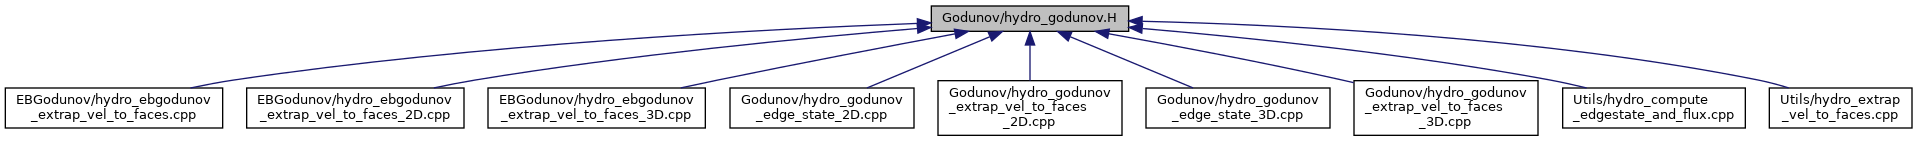
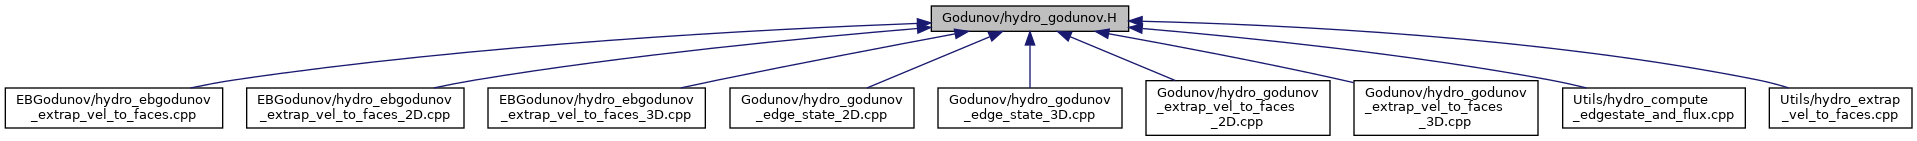
Deploying to main from  @ cc9b82daaecebbbc23d24aa5696b3ca58d60dfdc 🚀

Changed region(s): [[0.4924, 0.5674, 0.7079, 0.9645]]

diff --git a/amrex-hydro/Doxygen/html/navtreeindex9.js b/amrex-hydro/Doxygen/html/navtreeindex9.js
@@ -1,5 +1,7 @@
 var NAVTREEINDEX9 =
 {
+"namespaceamrex_1_1FileSystem.html#a53bbe4a421536a453fcb97d3c8219a55":[2,0,0,11,4],
+"namespaceamrex_1_1FileSystem.html#a7c995a447e27d5ea33bd54090d867373":[2,0,0,11,0],
 "namespaceamrex_1_1FileSystem.html#aabdade8ca72598b4b02073e1d72c8afe":[2,0,0,11,1],
 "namespaceamrex_1_1FileSystem.html#afee9c962b3446b2d10724c21add85f8c":[2,0,0,11,2],
 "namespaceamrex_1_1Font.html#a0a6af2cfc3d3c8e71bd2d45f6e3362fa":[2,0,0,12,4],
@@ -132,11 +134,14 @@ var NAVTREEINDEX9 =
 "namespaceamrex_1_1Lazy.html#a01ac7d4ed0bfab3839b45995cf260a05":[2,0,0,16,3],
 "namespaceamrex_1_1Lazy.html#a0a2dd2d6e19976b8eaebb9d81a65718a":[2,0,0,16,2],
 "namespaceamrex_1_1Lazy.html#a17dde5bdf675b748b4cff2f01edd7fc5":[2,0,0,16,1],
+"namespaceamrex_1_1Lazy.html#a48f09e6d45685ddcaa72f6424891b9e4":[2,0,0,16,4],
 "namespaceamrex_1_1Lazy.html#aaf84a070bebdd187b4edacd264604b5f":[2,0,0,16,5],
 "namespaceamrex_1_1Lazy.html#ac520a3dfdc05eaffb3b4eea05eea5668":[2,0,0,16,0],
+"namespaceamrex_1_1MFUtil.html#a0d2b028d5b4be5e38a0e4f8fc778c523":[2,0,0,18,3],
 "namespaceamrex_1_1MFUtil.html#a69b29ecaacdc25da8869a005da585ef2":[2,0,0,18,1],
 "namespaceamrex_1_1MFUtil.html#a9b34553675e4bbe3e7e6108780d34975":[2,0,0,18,0],
 "namespaceamrex_1_1MFUtil.html#a9c04768eaa499d2b837f0732d1316e6c":[2,0,0,18,4],
+"namespaceamrex_1_1MFUtil.html#afe644ed72607173bbcef31867f6a0c36":[2,0,0,18,2],
 "namespaceamrex_1_1MPMD.html#a3140db6536c44d09f5fec2fb7d4ff136":[2,0,0,20,2],
 "namespaceamrex_1_1MPMD.html#a3df5e063f2b14481feae8cea0d6d44d1":[2,0,0,20,5],
 "namespaceamrex_1_1MPMD.html#a444d6a7e87c49476671049df5ea59107":[2,0,0,20,0],
@@ -244,10 +249,5 @@ var NAVTREEINDEX9 =
 "namespaceamrex_1_1ParallelDescriptor.html#a01e2509fda38be90b0721b3a1aad439c":[2,0,0,27,61],
 "namespaceamrex_1_1ParallelDescriptor.html#a0653e205c26f3961aa756292d5f8dbc4":[2,0,0,27,134],
 "namespaceamrex_1_1ParallelDescriptor.html#a0719939ecc6b26843399e2af4d660f14":[2,0,0,27,59],
-"namespaceamrex_1_1ParallelDescriptor.html#a07419f788f738f82f07c288c70af5e6f":[2,0,0,27,150],
-"namespaceamrex_1_1ParallelDescriptor.html#a07c6b4691afed879feab525503e1e267":[2,0,0,27,99],
-"namespaceamrex_1_1ParallelDescriptor.html#a08634d889b97ecfc6d1093e15405dd0e":[2,0,0,27,108],
-"namespaceamrex_1_1ParallelDescriptor.html#a0903eb5194f11fcf386f79e6ff3c02f7":[2,0,0,27,8],
-"namespaceamrex_1_1ParallelDescriptor.html#a0b576ec45a3e69f29b13abda811d7f7d":[2,0,0,27,158],
-"namespaceamrex_1_1ParallelDescriptor.html#a0d0639c2781f6e40af7d1b507d3a7a2b":[2,0,0,27,44]
+"namespaceamrex_1_1ParallelDescriptor.html#a07419f788f738f82f07c288c70af5e6f":[2,0,0,27,150]
 };

diff --git a/amrex-hydro/Doxygen/html/navtreeindex12.js b/amrex-hydro/Doxygen/html/navtreeindex12.js
@@ -1,5 +1,7 @@
 var NAVTREEINDEX12 =
 {
+"namespaceamrex__constants__module.html#a6d0e20a18c5f695168cf590f87a460a4":[2,0,3,0],
+"namespaceamrex__constants__module.html#a7469c455ff0cedccfe42c39814622d44":[2,0,3,5],
 "namespaceamrex__constants__module.html#a82956dfe228acd8237172da6676e9e6c":[2,0,3,23],
 "namespaceamrex__constants__module.html#a83c308d92e3f50a4417ffa2eff4fc09c":[2,0,3,16],
 "namespaceamrex__constants__module.html#a884b54aef39c5c0ccba71be9614da8ea":[2,0,3,8],
@@ -47,8 +49,6 @@ var NAVTREEINDEX12 =
 "namespaceamrex__ebcellflag__module.html#ad0031001816fff176a885f73100062a8":[2,0,5,17],
 "namespaceamrex__ebcellflag__module.html#adb0a0516e63c6b90231902627fd51da1":[2,0,5,20],
 "namespaceamrex__ebcellflag__module.html#ae273e014cf970934c7683d5b8ab34c08":[2,0,5,19],
-"namespaceamrex_1_1EB2.html#a9b7e8df1d1bc60db9850f4a8abc067cd":[2,0,0,7,40],
-"namespaceamrex_1_1Amrvis.html#a3e880279ad4fb97535a0415f652dfc9d":[2,0,0,1,45],
 "namespaceamrex__ebcellflag__module.html#af1a98ee57e3c07abebae3e337d7895e7":[2,0,5,15],
 "namespaceamrex__ebcellflag__module.html#afe2a626f0efaee2b68a1c1b08225638e":[2,0,5,13],
 "namespaceamrex__error__module.html#a1a83328a0c70eaabd8ab9e1f041e581a":[2,0,6,1],
@@ -227,27 +227,27 @@ var NAVTREEINDEX12 =
 "structPPM_1_1wenoz.html#a26f76ed612ed3793a198fea5ba04ee0f":[3,0,1,2,2],
 "structPPM_1_1wenoz.html#a72576c8e1cd81086424841c36abe0864":[3,0,1,2,3],
 "structPPM_1_1wenoz.html#afee4ed2d065a9e7f6feec66c8a96a929":[3,0,1,2,1],
-"":[2,0,0,0],
-"":[2,0,16],
+"":[2,0,7],
+"":[2,0,0,8,0],
+"":[2,0,0,4],
+"":[2,0,0,16],
+"":[2,0,0,32],
+"":[2,0,3],
+"":[2,0,0,7,1],
+"":[2,0,0,26],
+"":[2,0,0,29],
+"":[2,0,15],
+"":[2,0,0,11],
+"":[2,0,0,31,0],
 "":[2,0,0,33,0],
-"":[2,0,0,7],
-"":[2,0,0,23],
-"":[2,0,0,5],
-"":[2,0,0,10],
-"":[2,0,0,13],
-"":[2,0,0,7,2],
-"":[2,0,0,14],
-"":[2,0,0,34],
-"":[2,0,12],
-"":[2,0,0,32,0],
-"":[2,0,0,1],
-"":[2,0,1],
-"":[2,0,8],
-"":[2,0,0,9],
-"":[2,0,0,38],
-"":[2,0,0,21],
-"":[2,0,13],
+"":[2,0,0,24],
+"":[2,0,0,33],
+"":[2,0,0,20],
+"":[2,0,0,36],
 "":[2,0,0,6],
-"":[2,0,0,7,0],
-"":[2,0,0,35]
+"":[2,0,14],
+"":[2,0,5],
+"":[2,0,0,14],
+"":[2,0,0,21],
+"":[2,0,0,0,0]
 };

diff --git a/amrex-hydro/Doxygen/html/navtreeindex11.js b/amrex-hydro/Doxygen/html/navtreeindex11.js
@@ -1,5 +1,10 @@
 var NAVTREEINDEX11 =
 {
+"namespaceamrex_1_1algoim.html#a1563d162ff7c724b049f407982b9376a":[2,0,0,0,22],
+"namespaceamrex_1_1algoim.html#a1d243dc8981384f1c0cb8b266c042735":[2,0,0,0,8],
+"namespaceamrex_1_1algoim.html#a26347d2ffb8ae0e55a261293b75aae80":[2,0,0,0,27],
+"namespaceamrex_1_1algoim.html#a2c8ca6ff2da3fdde81370a1dd00c9416":[2,0,0,0,3],
+"namespaceamrex_1_1algoim.html#a319d09e3fac406d5c7435495783c51da":[2,0,0,0,24],
 "namespaceamrex_1_1algoim.html#a354fd3da392bde50d7c9e5fd31a10385":[2,0,0,0,15],
 "namespaceamrex_1_1algoim.html#a3ccdff6c18c04f2fb7aa460f885333ba":[2,0,0,0,2],
 "namespaceamrex_1_1algoim.html#a59d00e52a1182ccb7556e0b34969d082":[2,0,0,0,23],
@@ -41,9 +46,6 @@ var NAVTREEINDEX11 =
 "namespaceamrex_1_1detail.html#a10e8c484da7d2f2f5bbd223b6b92dc87":[2,0,0,5,19],
 "namespaceamrex_1_1detail.html#a11b496ac41b8e46fe7f1adf74392dcfb":[2,0,0,5,43],
 "namespaceamrex_1_1detail.html#a1fbad5ff9cc23fcc37c363d9d3bc0d94":[2,0,0,5,2],
-"namespaceamrex_1_1Lazy.html#a48f09e6d45685ddcaa72f6424891b9e4":[2,0,0,16,4],
-"namespaceamrex_1_1MFUtil.html#a0d2b028d5b4be5e38a0e4f8fc778c523":[2,0,0,18,3],
-"namespaceamrex_1_1MFUtil.html#afe644ed72607173bbcef31867f6a0c36":[2,0,0,18,2],
 "namespaceamrex_1_1detail.html#a22f28be2277f42d7a03a9e08a27ef688":[2,0,0,5,8],
 "namespaceamrex_1_1detail.html#a250b5d3b18b57c96185794d45778bceb":[2,0,0,5,35],
 "namespaceamrex_1_1detail.html#a25e0b92826e807152f4d649b33c45336":[2,0,0,5,24],
@@ -247,7 +249,5 @@ var NAVTREEINDEX11 =
 "namespaceamrex__constants__module.html#a4af48d8e7785fd2fdc80cc68c460e520":[2,0,3,14],
 "namespaceamrex__constants__module.html#a4f8d71c1b1d316bbf6505f7a9511d24d":[2,0,3,1],
 "namespaceamrex__constants__module.html#a5321716779ead3e7f70ea68bdbd2fb8b":[2,0,3,9],
-"namespaceamrex__constants__module.html#a629e9df315fc853fd9996d553493c395":[2,0,3,26],
-"namespaceamrex__constants__module.html#a6d0e20a18c5f695168cf590f87a460a4":[2,0,3,0],
-"namespaceamrex__constants__module.html#a7469c455ff0cedccfe42c39814622d44":[2,0,3,5]
+"namespaceamrex__constants__module.html#a629e9df315fc853fd9996d553493c395":[2,0,3,26]
 };

diff --git a/amrex-hydro/Doxygen/html/navtreeindex8.js b/amrex-hydro/Doxygen/html/navtreeindex8.js
@@ -100,6 +100,7 @@ var NAVTREEINDEX8 =
 "namespaceamrex_1_1Amrvis.html#a215d738508df9f39360cdc84a844e98eaba96691ea8224cc3ccf1b9b54dfff4b3":[2,0,0,1,16],
 "namespaceamrex_1_1Amrvis.html#a215d738508df9f39360cdc84a844e98eac6c6458c687d1b60adee77a09a91bef5":[2,0,0,1,21],
 "namespaceamrex_1_1Amrvis.html#a345f2c2cc5c709a02e40f34b83d914fb":[2,0,0,1,49],
+"namespaceamrex_1_1Amrvis.html#a3e880279ad4fb97535a0415f652dfc9d":[2,0,0,1,45],
 "namespaceamrex_1_1Amrvis.html#a437894f04cb4f84ae291fb58f63fac4f":[2,0,0,1,24],
 "namespaceamrex_1_1Amrvis.html#a53ecf753e57075db2ce21ddbb7b70d64":[2,0,0,1,43],
 "namespaceamrex_1_1Amrvis.html#a599af4a9a7801ab18cba2c51f52a5120":[2,0,0,1,0],
@@ -193,6 +194,7 @@ var NAVTREEINDEX8 =
 "namespaceamrex_1_1EB2.html#a8d7bc742e281f0aa021c859e7cd8f355":[2,0,0,7,30],
 "namespaceamrex_1_1EB2.html#a900c8b65fe13dca2d107ec8ae396b7b7":[2,0,0,7,46],
 "namespaceamrex_1_1EB2.html#a97bb46ef943ca61f6c69345a636c8f91":[2,0,0,7,12],
+"namespaceamrex_1_1EB2.html#a9b7e8df1d1bc60db9850f4a8abc067cd":[2,0,0,7,40],
 "namespaceamrex_1_1EB2.html#aa6d8b9ccdeea03640db903d130f9af47":[2,0,0,7,48],
 "namespaceamrex_1_1EB2.html#aa7338d977a75ba57af4d72210ed906d1":[2,0,0,7,31],
 "namespaceamrex_1_1EB2.html#ab08bb163ec9d566ce748dd6c4a7f0385":[2,0,0,7,43],
@@ -247,7 +249,5 @@ var NAVTREEINDEX8 =
 "namespaceamrex_1_1FGColor.html#a9a21f50f46715c9f6e92e23e7416d595":[2,0,0,10,14],
 "namespaceamrex_1_1FGColor.html#aae3403f6980e1c0d60774d007a6590f4":[2,0,0,10,12],
 "namespaceamrex_1_1FGColor.html#afca8013d5b489e37aa5c257ad3073aab":[2,0,0,10,0],
-"namespaceamrex_1_1FileSystem.html#a1887698566ebd58596be3b1a96ad2e9a":[2,0,0,11,3],
-"namespaceamrex_1_1FileSystem.html#a53bbe4a421536a453fcb97d3c8219a55":[2,0,0,11,4],
-"namespaceamrex_1_1FileSystem.html#a7c995a447e27d5ea33bd54090d867373":[2,0,0,11,0]
+"namespaceamrex_1_1FileSystem.html#a1887698566ebd58596be3b1a96ad2e9a":[2,0,0,11,3]
 };

diff --git a/amrex-hydro/Doxygen/html/navtreeindex10.js b/amrex-hydro/Doxygen/html/navtreeindex10.js
@@ -1,5 +1,10 @@
 var NAVTREEINDEX10 =
 {
+"namespaceamrex_1_1ParallelDescriptor.html#a07c6b4691afed879feab525503e1e267":[2,0,0,27,99],
+"namespaceamrex_1_1ParallelDescriptor.html#a08634d889b97ecfc6d1093e15405dd0e":[2,0,0,27,108],
+"namespaceamrex_1_1ParallelDescriptor.html#a0903eb5194f11fcf386f79e6ff3c02f7":[2,0,0,27,8],
+"namespaceamrex_1_1ParallelDescriptor.html#a0b576ec45a3e69f29b13abda811d7f7d":[2,0,0,27,158],
+"namespaceamrex_1_1ParallelDescriptor.html#a0d0639c2781f6e40af7d1b507d3a7a2b":[2,0,0,27,44],
 "namespaceamrex_1_1ParallelDescriptor.html#a0f53686fc6a6b7dca69c230fd1336e44":[2,0,0,27,27],
 "namespaceamrex_1_1ParallelDescriptor.html#a10f34646867ef5dd70d02ecf014de3d2":[2,0,0,27,95],
 "namespaceamrex_1_1ParallelDescriptor.html#a12ffc8c1e5d0753383b1c4cacd1057dd":[2,0,0,27,77],
@@ -244,10 +249,5 @@ var NAVTREEINDEX10 =
 "namespaceamrex_1_1algoim.html#a035ca724de0232c06fb8f932f48dfb5b":[2,0,0,0,31],
 "namespaceamrex_1_1algoim.html#a05434c8a13201e8af0f5dab5420e33d2":[2,0,0,0,5],
 "namespaceamrex_1_1algoim.html#a07474818cba158a836bada961168c817":[2,0,0,0,17],
-"namespaceamrex_1_1algoim.html#a1431c6a34f2cb39592447caf369d3440":[2,0,0,0,36],
-"namespaceamrex_1_1algoim.html#a1563d162ff7c724b049f407982b9376a":[2,0,0,0,22],
-"namespaceamrex_1_1algoim.html#a1d243dc8981384f1c0cb8b266c042735":[2,0,0,0,8],
-"namespaceamrex_1_1algoim.html#a26347d2ffb8ae0e55a261293b75aae80":[2,0,0,0,27],
-"namespaceamrex_1_1algoim.html#a2c8ca6ff2da3fdde81370a1dd00c9416":[2,0,0,0,3],
-"namespaceamrex_1_1algoim.html#a319d09e3fac406d5c7435495783c51da":[2,0,0,0,24]
+"namespaceamrex_1_1algoim.html#a1431c6a34f2cb39592447caf369d3440":[2,0,0,0,36]
 };

diff --git a/amrex-hydro/Doxygen/html/navtreeindex13.js b/amrex-hydro/Doxygen/html/navtreeindex13.js
@@ -1,54 +1,54 @@
 var NAVTREEINDEX13 =
 {
-"":[2,0,0,29],
-"":[2,0,0,14,0,0],
-"":[2,0,0,16],
-"":[2,0,17],
-"":[2,0,0,14,2],
-"":[2,0,9],
-"":[2,0,0,8,0,0],
-"":[2,0,0,27,0],
-"":[2,0,0,31,0],
-"":[2,0,0,8],
-"":[2,0,3],
-"":[2,0,14],
-"":[2,0,10],
-"":[2,0,0,17],
 "":[2,0,0,31],
+"":[2,0,0,7,2],
 "":[2,0,0,15],
-"":[2,0,0,36],
-"":[2,0,2],
-"":[2,0,0,32],
-"":[2,0,5],
-"":[2,0,0,33],
-"":[2,0,0,26],
-"":[2,0,35],
+"":[2,0,0,22],
+"":[2,0,0,2],
 "":[2,0,0,27],
 "":[2,0,31],
-"":[2,0,0,37],
-"":[2,0,0,14,1],
-"":[2,0,0,14,0],
-"":[2,0,0,4],
-"":[2,0,0,28],
-"":[2,0,0,0,0],
-"":[2,0,0,30],
 "":[2,0,0],
-"":[2,0,0,25],
+"":[2,0,0,0],
+"":[2,0,0,32,0],
+"":[2,0,0,9],
+"":[2,0,0,14,1],
 "":[2,0,0,19],
-"":[2,0,0,7,1],
-"":[2,0,0,8,0],
-"":[2,0,0,12],
-"":[2,0,6],
-"":[2,0,11],
-"":[2,0,0,20],
-"":[2,0,0,11],
-"":[2,0,7],
-"":[2,0,0,22],
+"":[2,0,0,14,2],
 "":[2,0,4],
-"":[2,0,0,2],
+"":[2,0,0,13],
+"":[2,0,0,8],
+"":[2,0,11],
+"":[2,0,0,27,0],
+"":[2,0,12],
+"":[2,0,6],
+"":[2,0,0,25],
 "":[2,0,0,18],
-"":[2,0,0,24],
+"":[2,0,0,14,0],
+"":[2,0,0,17],
+"":[2,0,0,38],
+"":[2,0,1],
+"":[2,0,0,8,0,0],
+"":[2,0,9],
+"":[2,0,0,5],
+"":[2,0,0,12],
+"":[2,0,0,3],
+"":[2,0,16],
+"":[2,0,0,35],
+"":[2,0,0,30],
+"":[2,0,8],
+"":[2,0,2],
 "":[2,0,19],
-"":[2,0,15],
-"":[2,0,0,3]
+"":[2,0,0,34],
+"":[2,0,0,23],
+"":[2,0,17],
+"":[2,0,13],
+"":[2,0,0,7],
+"":[2,0,0,10],
+"":[2,0,0,14,0,0],
+"":[2,0,10],
+"":[2,0,0,37],
+"":[2,0,0,7,0],
+"":[2,0,0,1],
+"":[2,0,0,28],
+"":[2,0,35]
 };

diff --git a/amrex-hydro/Doxygen/html/hydro__godunov_8H.html b/amrex-hydro/Doxygen/html/hydro__godunov_8H.html
@@ -127,8 +127,8 @@ This graph shows which files directly or indirectly include this file:</div>
 <area shape="rect" href="hydro__ebgodunov__extrap__vel__to__faces__2D_8cpp.html" title=" " alt="" coords="247,87,464,129"/>
 <area shape="rect" href="hydro__ebgodunov__extrap__vel__to__faces__3D_8cpp.html" title=" " alt="" coords="488,87,705,129"/>
 <area shape="rect" href="hydro__godunov__edge__state__2D_8cpp.html" title=" " alt="" coords="730,87,914,129"/>
-<area shape="rect" href="hydro__godunov__extrap__vel__to__faces__2D_8cpp.html" title=" " alt="" coords="938,80,1122,136"/>
-<area shape="rect" href="hydro__godunov__edge__state__3D_8cpp.html" title=" " alt="" coords="1146,87,1330,129"/>
+<area shape="rect" href="hydro__godunov__edge__state__3D_8cpp.html" title=" " alt="" coords="938,87,1122,129"/>
+<area shape="rect" href="hydro__godunov__extrap__vel__to__faces__2D_8cpp.html" title=" " alt="" coords="1146,80,1330,136"/>
 <area shape="rect" href="hydro__godunov__extrap__vel__to__faces__3D_8cpp.html" title=" " alt="" coords="1354,80,1538,136"/>
 <area shape="rect" href="hydro__compute__edgestate__and__flux_8cpp.html" title=" " alt="" coords="1563,87,1745,129"/>
 <area shape="rect" href="hydro__extrap__vel__to__faces_8cpp.html" title=" " alt="" coords="1769,87,1912,129"/>

diff --git a/amrex-hydro/Doxygen/html/hydro__bcs__K_8H.html b/amrex-hydro/Doxygen/html/hydro__bcs__K_8H.html
@@ -137,8 +137,8 @@ This graph shows which files directly or indirectly include this file:</div>
 <area shape="rect" href="hydro__mol__edge__state__K_8H.html" title=" " alt="" coords="1663,87,1826,129"/>
 <area shape="rect" href="hydro__mol__extrap__vel__to__faces__box_8cpp.html" title=" " alt="" coords="1850,87,2023,129"/>
 <area shape="rect" href="hydro__godunov__edge__state__2D_8cpp.html" title=" " alt="" coords="2047,87,2231,129"/>
-<area shape="rect" href="hydro__godunov__extrap__vel__to__faces__2D_8cpp.html" title=" " alt="" coords="2255,80,2439,136"/>
-<area shape="rect" href="hydro__godunov__edge__state__3D_8cpp.html" title=" " alt="" coords="2463,87,2647,129"/>
+<area shape="rect" href="hydro__godunov__edge__state__3D_8cpp.html" title=" " alt="" coords="2255,87,2439,129"/>
+<area shape="rect" href="hydro__godunov__extrap__vel__to__faces__2D_8cpp.html" title=" " alt="" coords="2463,80,2647,136"/>
 <area shape="rect" href="hydro__godunov__extrap__vel__to__faces__3D_8cpp.html" title=" " alt="" coords="2671,80,2855,136"/>
 <area shape="rect" href="hydro__ebmol__edge__state_8cpp.html" title=" " alt="" coords="5,184,201,225"/>
 <area shape="rect" href="hydro__mol__edge__state_8cpp.html" title=" " alt="" coords="1663,184,1826,225"/>

diff --git a/amrex-hydro/Doxygen/html/hydro__godunov__ppm_8H.html b/amrex-hydro/Doxygen/html/hydro__godunov__ppm_8H.html
@@ -125,8 +125,8 @@ This graph shows which files directly or indirectly include this file:</div>
 <area shape="rect" title=" " alt="" coords="1056,5,1240,47"/>
 <area shape="rect" href="hydro__godunov_8H.html" title=" " alt="" coords="937,95,1135,121"/>
 <area shape="rect" href="hydro__godunov__edge__state__2D_8cpp.html" title=" " alt="" coords="5,177,189,218"/>
-<area shape="rect" href="hydro__godunov__extrap__vel__to__faces__2D_8cpp.html" title=" " alt="" coords="213,169,397,225"/>
-<area shape="rect" href="hydro__godunov__edge__state__3D_8cpp.html" title=" " alt="" coords="1147,177,1331,218"/>
+<area shape="rect" href="hydro__godunov__edge__state__3D_8cpp.html" title=" " alt="" coords="213,177,397,218"/>
+<area shape="rect" href="hydro__godunov__extrap__vel__to__faces__2D_8cpp.html" title=" " alt="" coords="1147,169,1331,225"/>
 <area shape="rect" href="hydro__godunov__extrap__vel__to__faces__3D_8cpp.html" title=" " alt="" coords="1355,169,1539,225"/>
 <area shape="rect" href="hydro__utils_8H.html" title=" " alt="" coords="1657,95,1799,121"/>
 <area shape="rect" href="hydro__ebgodunov__extrap__vel__to__faces_8cpp.html" title=" " alt="" coords="422,177,639,218"/>

diff --git a/amrex-hydro/Doxygen/html/hydro__godunov__plm_8H.html b/amrex-hydro/Doxygen/html/hydro__godunov__plm_8H.html
@@ -135,8 +135,8 @@ This graph shows which files directly or indirectly include this file:</div>
 <area shape="rect" href="hydro__ebgodunov__extrap__vel__to__faces__2D_8cpp.html" title=" " alt="" coords="247,102,464,143"/>
 <area shape="rect" href="hydro__ebgodunov__extrap__vel__to__faces__3D_8cpp.html" title=" " alt="" coords="488,102,705,143"/>
 <area shape="rect" href="hydro__godunov__edge__state__2D_8cpp.html" title=" " alt="" coords="730,102,914,143"/>
-<area shape="rect" href="hydro__godunov__extrap__vel__to__faces__2D_8cpp.html" title=" " alt="" coords="938,95,1122,151"/>
-<area shape="rect" href="hydro__godunov__edge__state__3D_8cpp.html" title=" " alt="" coords="1146,102,1330,143"/>
+<area shape="rect" href="hydro__godunov__edge__state__3D_8cpp.html" title=" " alt="" coords="938,102,1122,143"/>
+<area shape="rect" href="hydro__godunov__extrap__vel__to__faces__2D_8cpp.html" title=" " alt="" coords="1146,95,1330,151"/>
 <area shape="rect" href="hydro__godunov__plm_8cpp.html" title=" " alt="" coords="1354,102,1538,143"/>
 <area shape="rect" href="hydro__godunov__extrap__vel__to__faces__3D_8cpp.html" title=" " alt="" coords="1562,95,1746,151"/>
 </map>

diff --git a/amrex-hydro/Doxygen/html/navtreedata.js b/amrex-hydro/Doxygen/html/navtreedata.js
@@ -74,10 +74,10 @@ var NAVTREEINDEX =
 "namespaceamrex.html#aa90dde62ffe45aa35b5dd015043019a8",
 "namespaceamrex.html#ad2144182834ce73b21ddad5461a14814",
 "namespaceamrex.html#af37f380f72af598af4865070235664c2",
-"namespaceamrex_1_1FileSystem.html#aabdade8ca72598b4b02073e1d72c8afe",
-"namespaceamrex_1_1ParallelDescriptor.html#a0f53686fc6a6b7dca69c230fd1336e44",
-"namespaceamrex_1_1algoim.html#a354fd3da392bde50d7c9e5fd31a10385",
-"namespaceamrex__constants__module.html#a82956dfe228acd8237172da6676e9e6c",
+"namespaceamrex_1_1FileSystem.html#a53bbe4a421536a453fcb97d3c8219a55",
+"namespaceamrex_1_1ParallelDescriptor.html#a07c6b4691afed879feab525503e1e267",
+"namespaceamrex_1_1algoim.html#a1563d162ff7c724b049f407982b9376a",
+"namespaceamrex__constants__module.html#a6d0e20a18c5f695168cf590f87a460a4",
 ""
 ];
 
